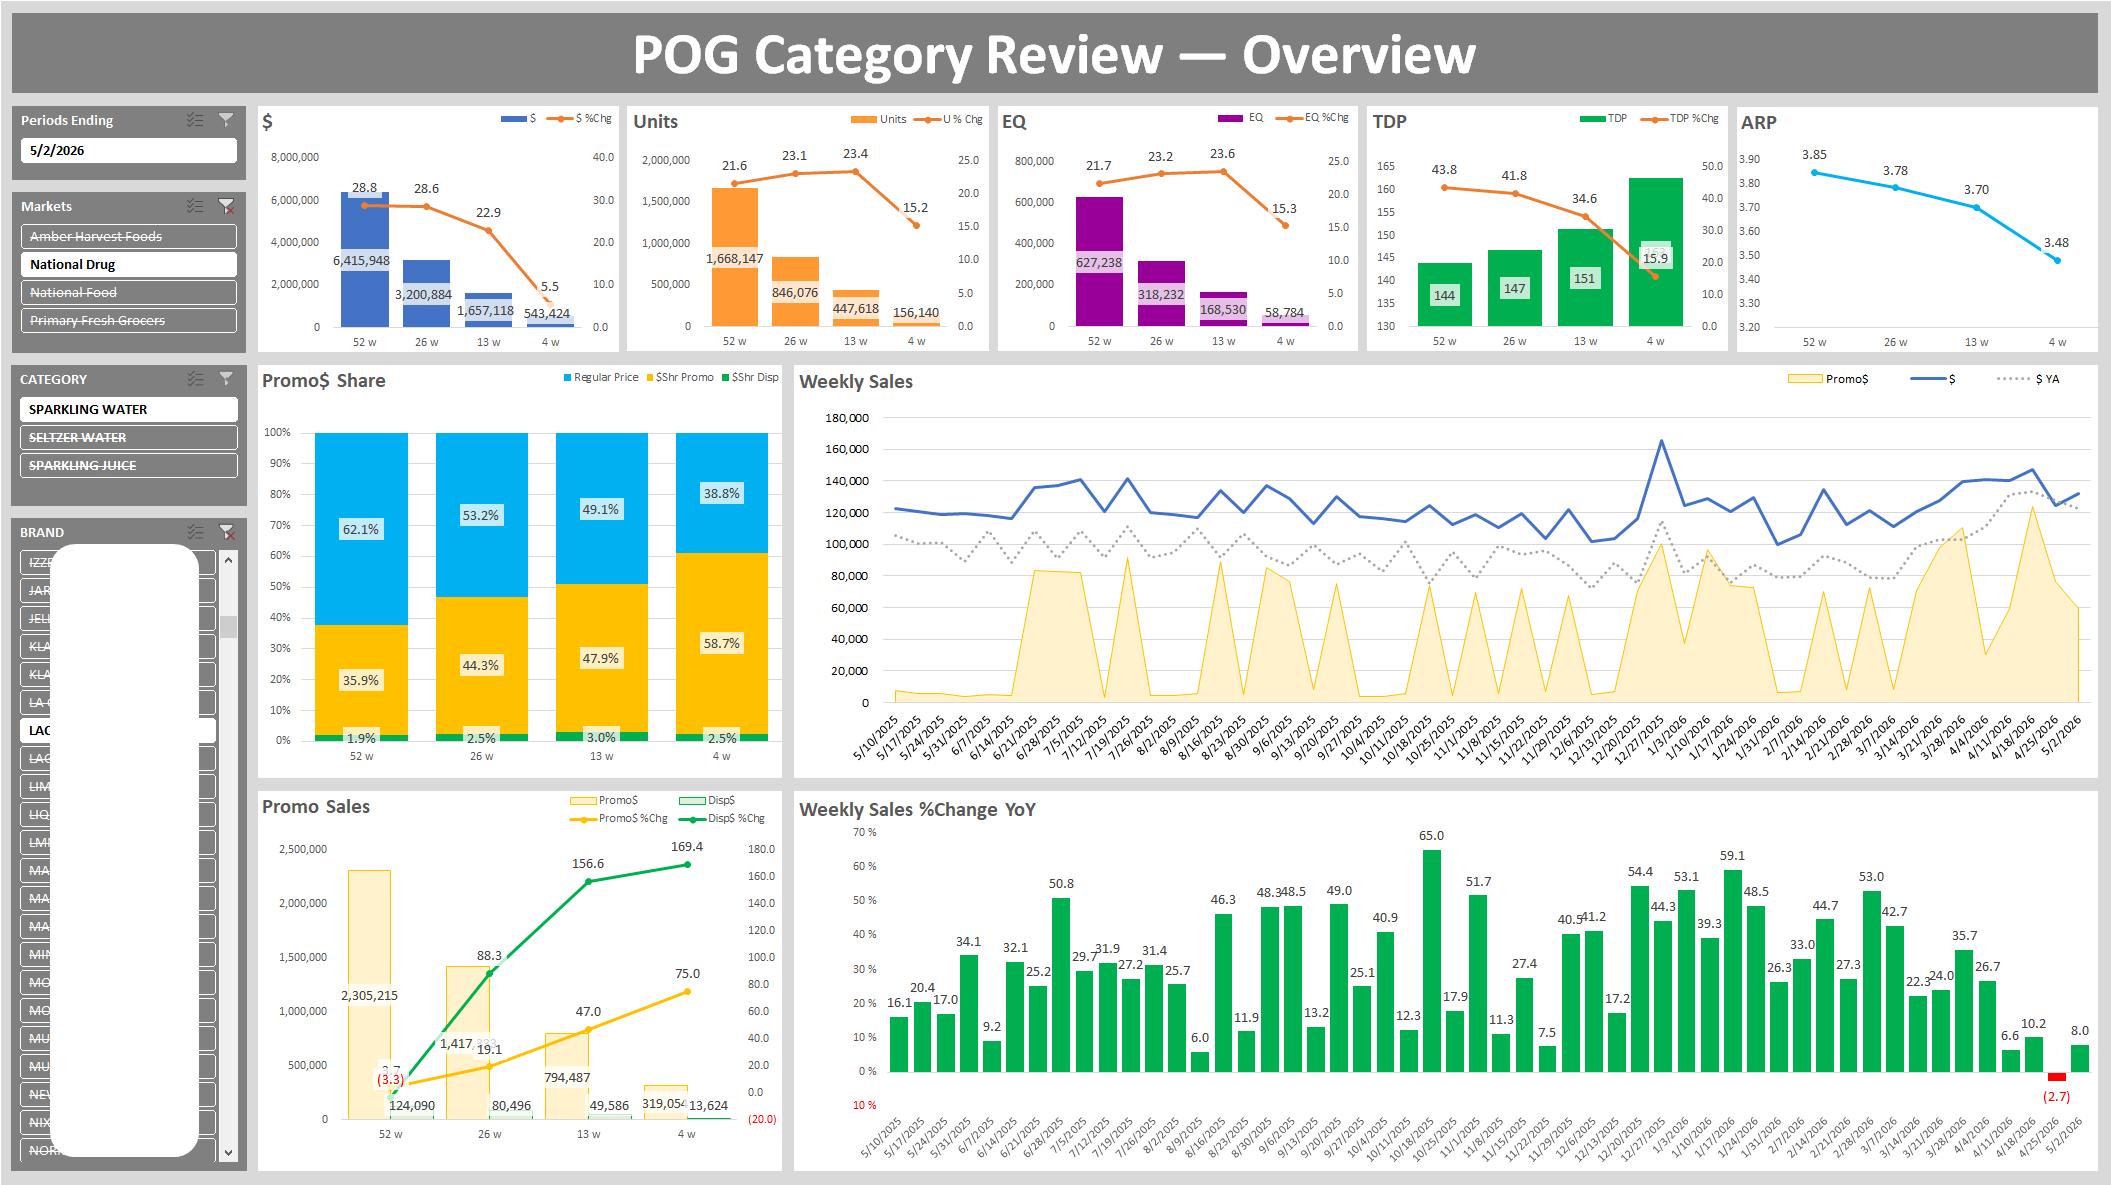
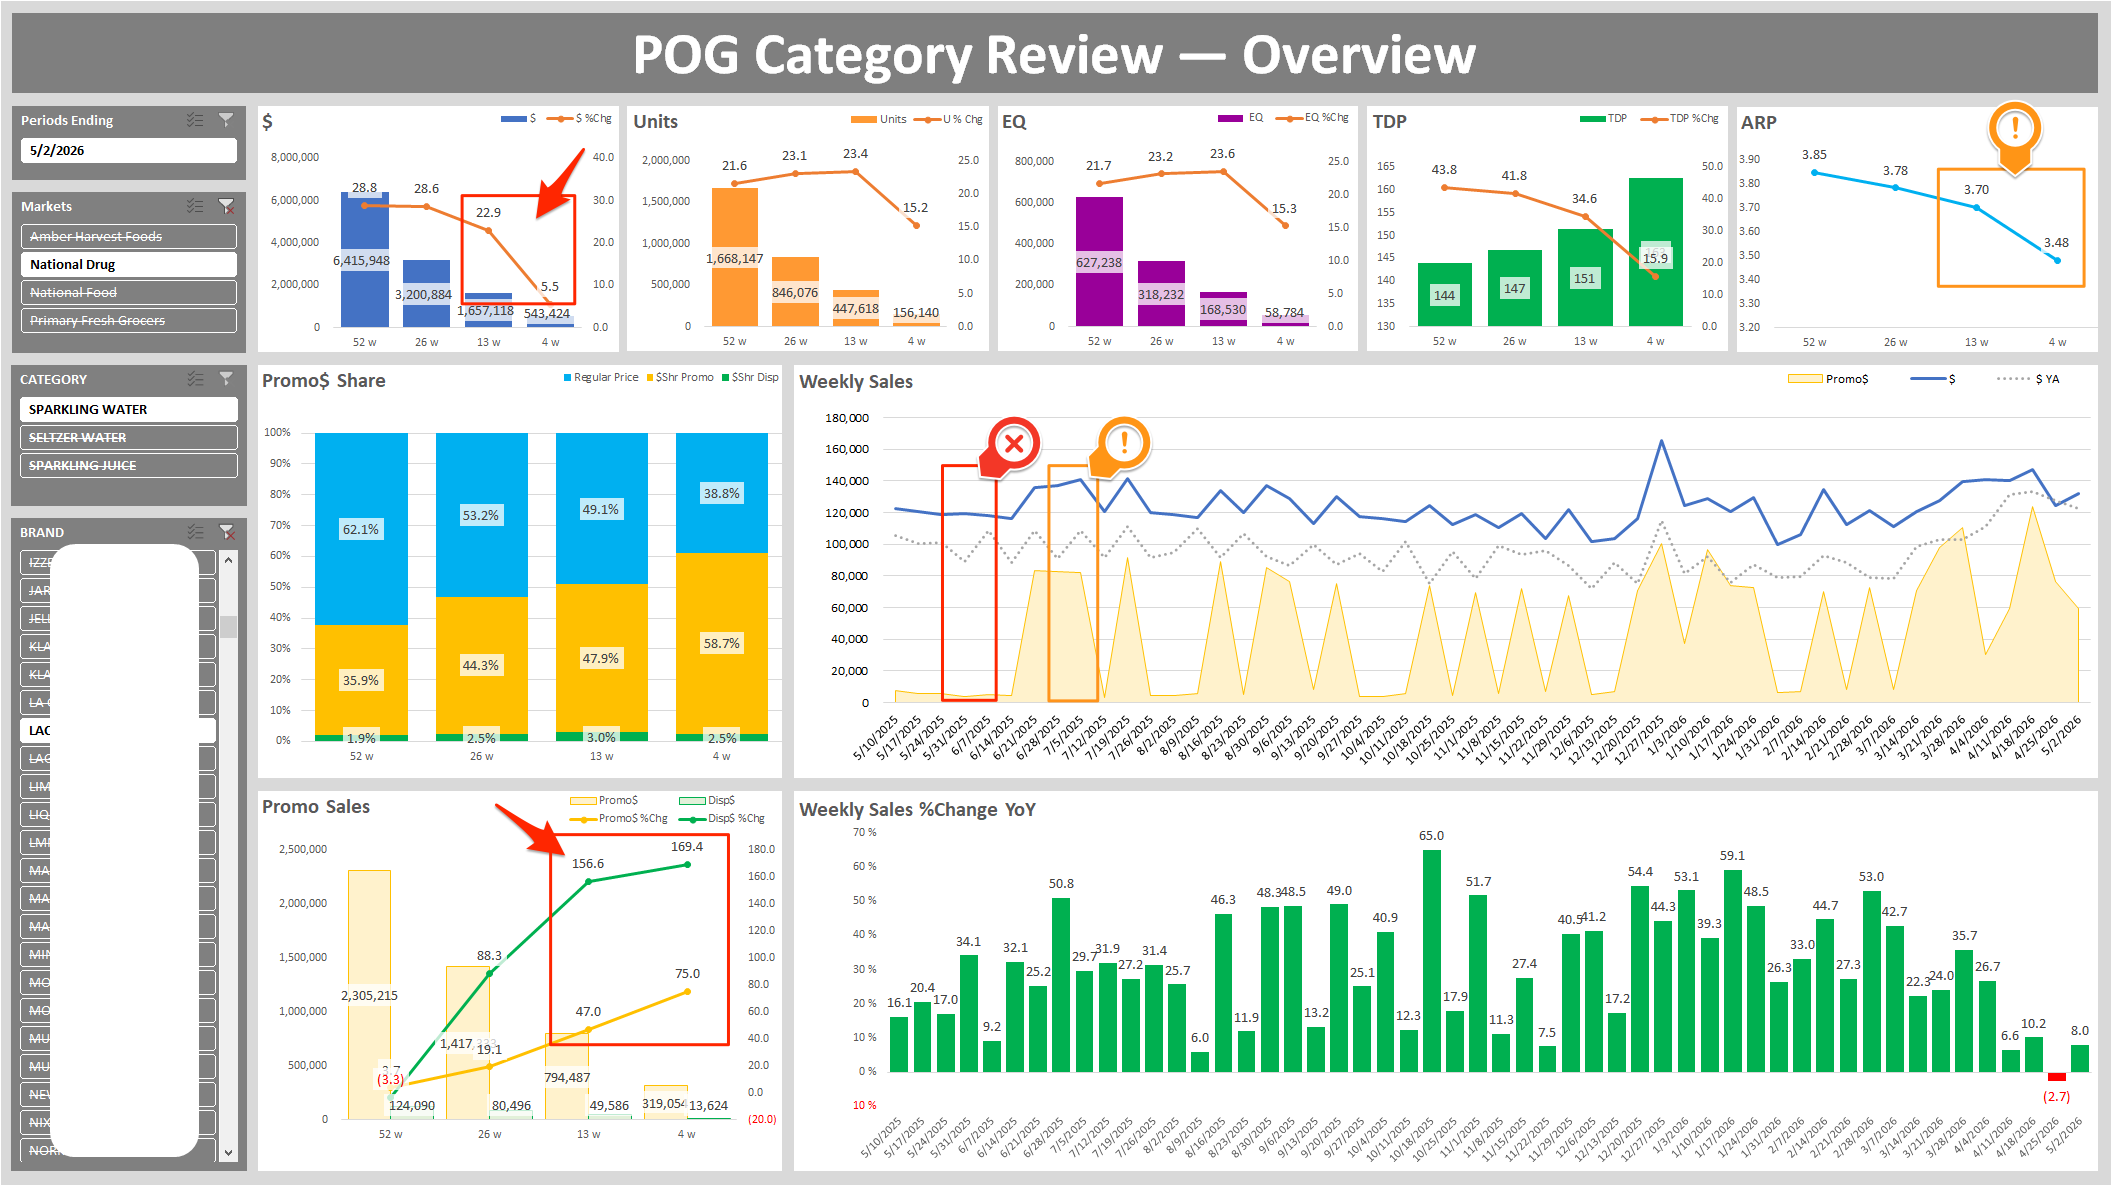
Added National Food Channel

diff --git a/salesmarketing-performance-cpg-bev/README.md b/salesmarketing-performance-cpg-bev/README.md
@@ -9,13 +9,34 @@ I extracted sales data from syndicated databases and developed an Excel dashboar
 1. Built an interactive Excel dashboard to monitor market performance, identify growth opportunities, and support strategic business decisions.
 
 ## Demonstrated Skills
-1. Syndicated Datasets: Market Selection, KPI Development, Clustering, Aggregation, Reusable Reporting Extracts
-1. Power Query: Data Validation, Null/Outlier Handling, Normalization, Transformation, Deduplication, Joins, Data Splitting
-1. Excel & Dashboarding: Pivot Tables, Calculated Fields, Data Visualization, Filters, Slicers, KPI Tracking, Benchmarking, Dashboard Design, Stakeholder Reporting
-1. Business Analysis: Sales Performance Analysis, Promotional Effectiveness Analysis, Seasonal Trend Analysis, Pricing Analysis
-1. Other Skills: Problem Framing, Requirements Gathering, Scoring Methodologies, Reusable Dashboard Development, Strategic Recommendations, Stakeholder Collaboration
+- Syndicated Datasets: Market Selection, KPI Development, Clustering, Aggregation, Reusable Reporting Extracts
+- Power Query: Data Validation, Null/Outlier Handling, Normalization, Transformation, Deduplication, Joins, Data Splitting
+- Excel & Dashboarding: Pivot Tables, Calculated Fields, Data Visualization, Filters, Slicers, KPI Tracking, Benchmarking, Dashboard Design, Stakeholder Reporting
+- Business Analysis: Sales Performance Analysis, Promotional Effectiveness Analysis, Seasonal Trend Analysis, Pricing Analysis
+- Other Skills: Problem Framing, Requirements Gathering, Scoring Methodologies, Reusable Dashboard Development, Strategic Recommendations, Stakeholder Collaboration
 
-## Case 2: National Drug
+## Case 1: National Food Channel
+### Executive Summary
+Sales and unit declines accelerated in the National Food channel despite increased promotional activity during the latest quarter, indicating diminishing promotional effectiveness and weakening consumer demand. Additional findings revealed persistent distribution declines and limited sustained baseline sales growth.
+
+![National Food](img/national_food.png)
+
+### Recommendations
+1. Prioritize distribution recovery to stabilize market reach and improve baseline sales volume
+1. Reduce low-efficiency promotional frequency and reallocate investment toward higher-performing promotional periods
+1. Expand multipack and value-focused product strategies to strengthen consumer demand and purchase volume
+
+### Business Problem
+The brand increased promotional investments within the National Food channel to accelerate growth. However, sales performance continued to weaken despite higher promotional activity. This analysis assessed promotional effectiveness, distribution performance, and consumer demand trends to identify opportunities to improve revenue growth and sales efficiency.
+
+### Key Insights
+1. Dollar sales declined across all major periods, with the steepest decline occurring during the latest 4 weeks (-4.1%)
+1. Unit and EQ declines significantly outpaced dollar sales declines while ARP increased from $4.87 to $5.00, suggesting growing consumer price sensitivity and weakening purchase volume
+1. Promotional share increased from 49.6% to 53.7%, while promotional sales growth deteriorated sharply, indicating diminishing promotional effectiveness and lower incremental returns
+1. Weekly sales trends showed heavy dependence on short-term promotional spikes with limited sustained baseline sales growth
+1. Consumers showed stronger purchasing behavior toward larger multipack products, indicating higher perceived value and stronger unit-per-cost economics
+
+## Case 2: National Drug Channel
 ### Executive Summary
 Sales growth in the National Drug channel slowed during the latest quarter despite continued unit and distribution growth. Dashboard analysis revealed that increasingly aggressive promotional activity and declining Average Retail Price (ARP) reduced revenue efficiency and limited incremental sales gains. Additional findings also identified missed seasonal promotional opportunities and overreliance on short-term promotional spikes.
 
@@ -34,6 +55,4 @@ The brand increased promotional and distribution investments to accelerate growt
 1. Distribution growth (+43.8%) significantly outpaced dollar sales growth (+28.8%), indicating weaker revenue conversion efficiency
 1. ARP declined from $3.85 to $3.48 as promotional activity intensified, contributing to slower dollar sales growth despite positive unit growth
 1. Promotional intensity increased during the 13 and 4 week periods, but incremental unit gains failed to offset declining revenue per unit, indicating diminishing promotional returns
-1. Weekly sales trends showed heavy dependence on short-term promotional spikes with limited sustained baseline growth
 1. Memorial Day lacked promotional support, while Fourth of July promotions underperformed relative to several non-holiday promotional periods
-1. Consumers showed stronger purchasing behavior toward larger multipack products, indicating higher perceived value and stronger unit-per-cost economics
